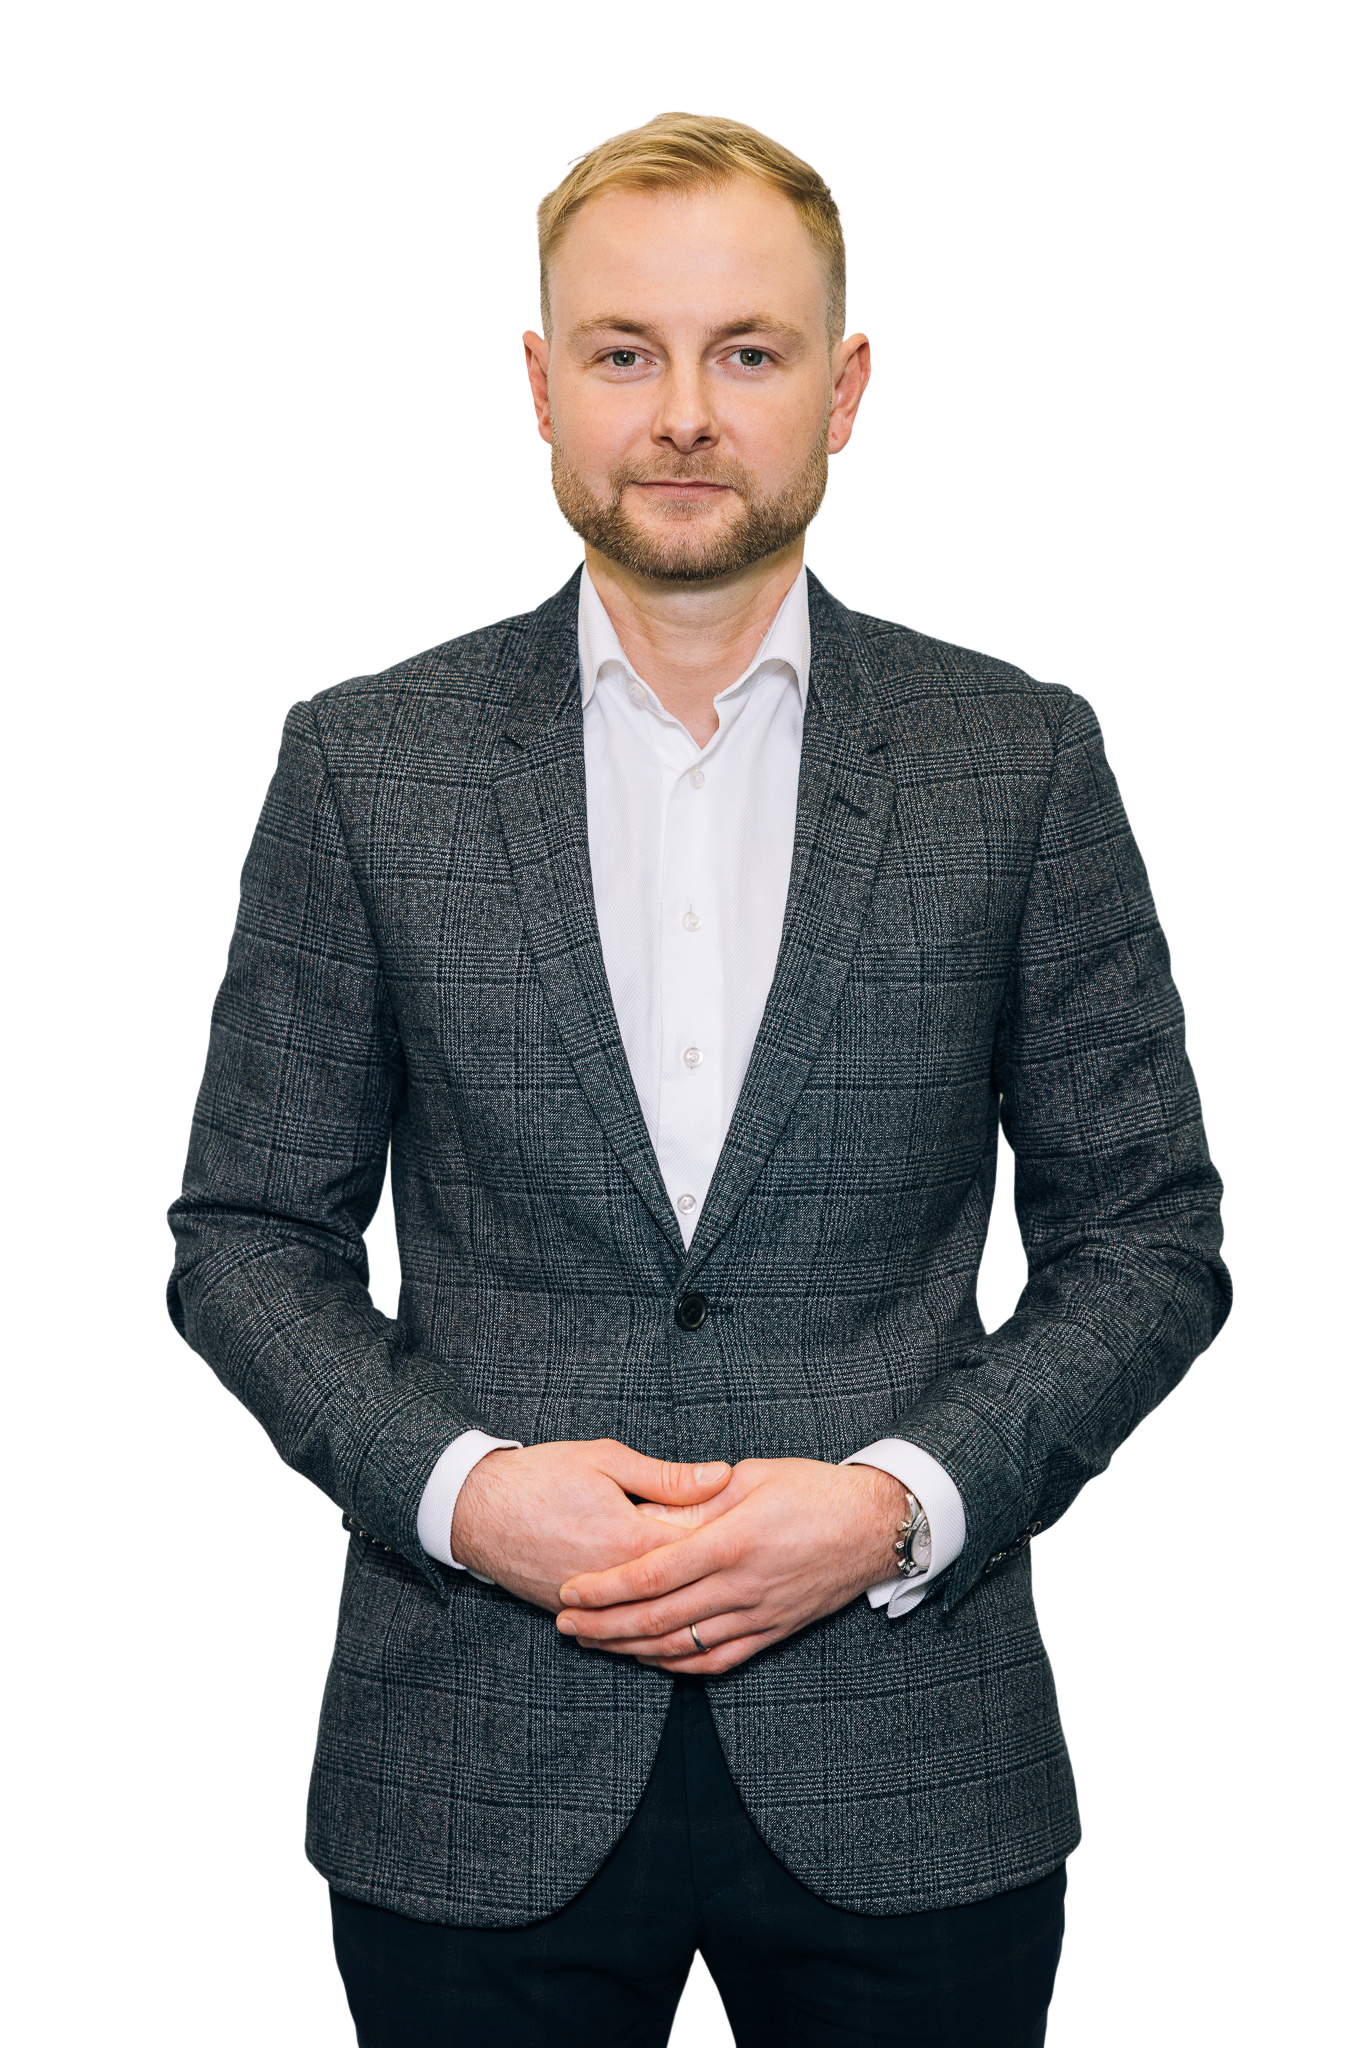
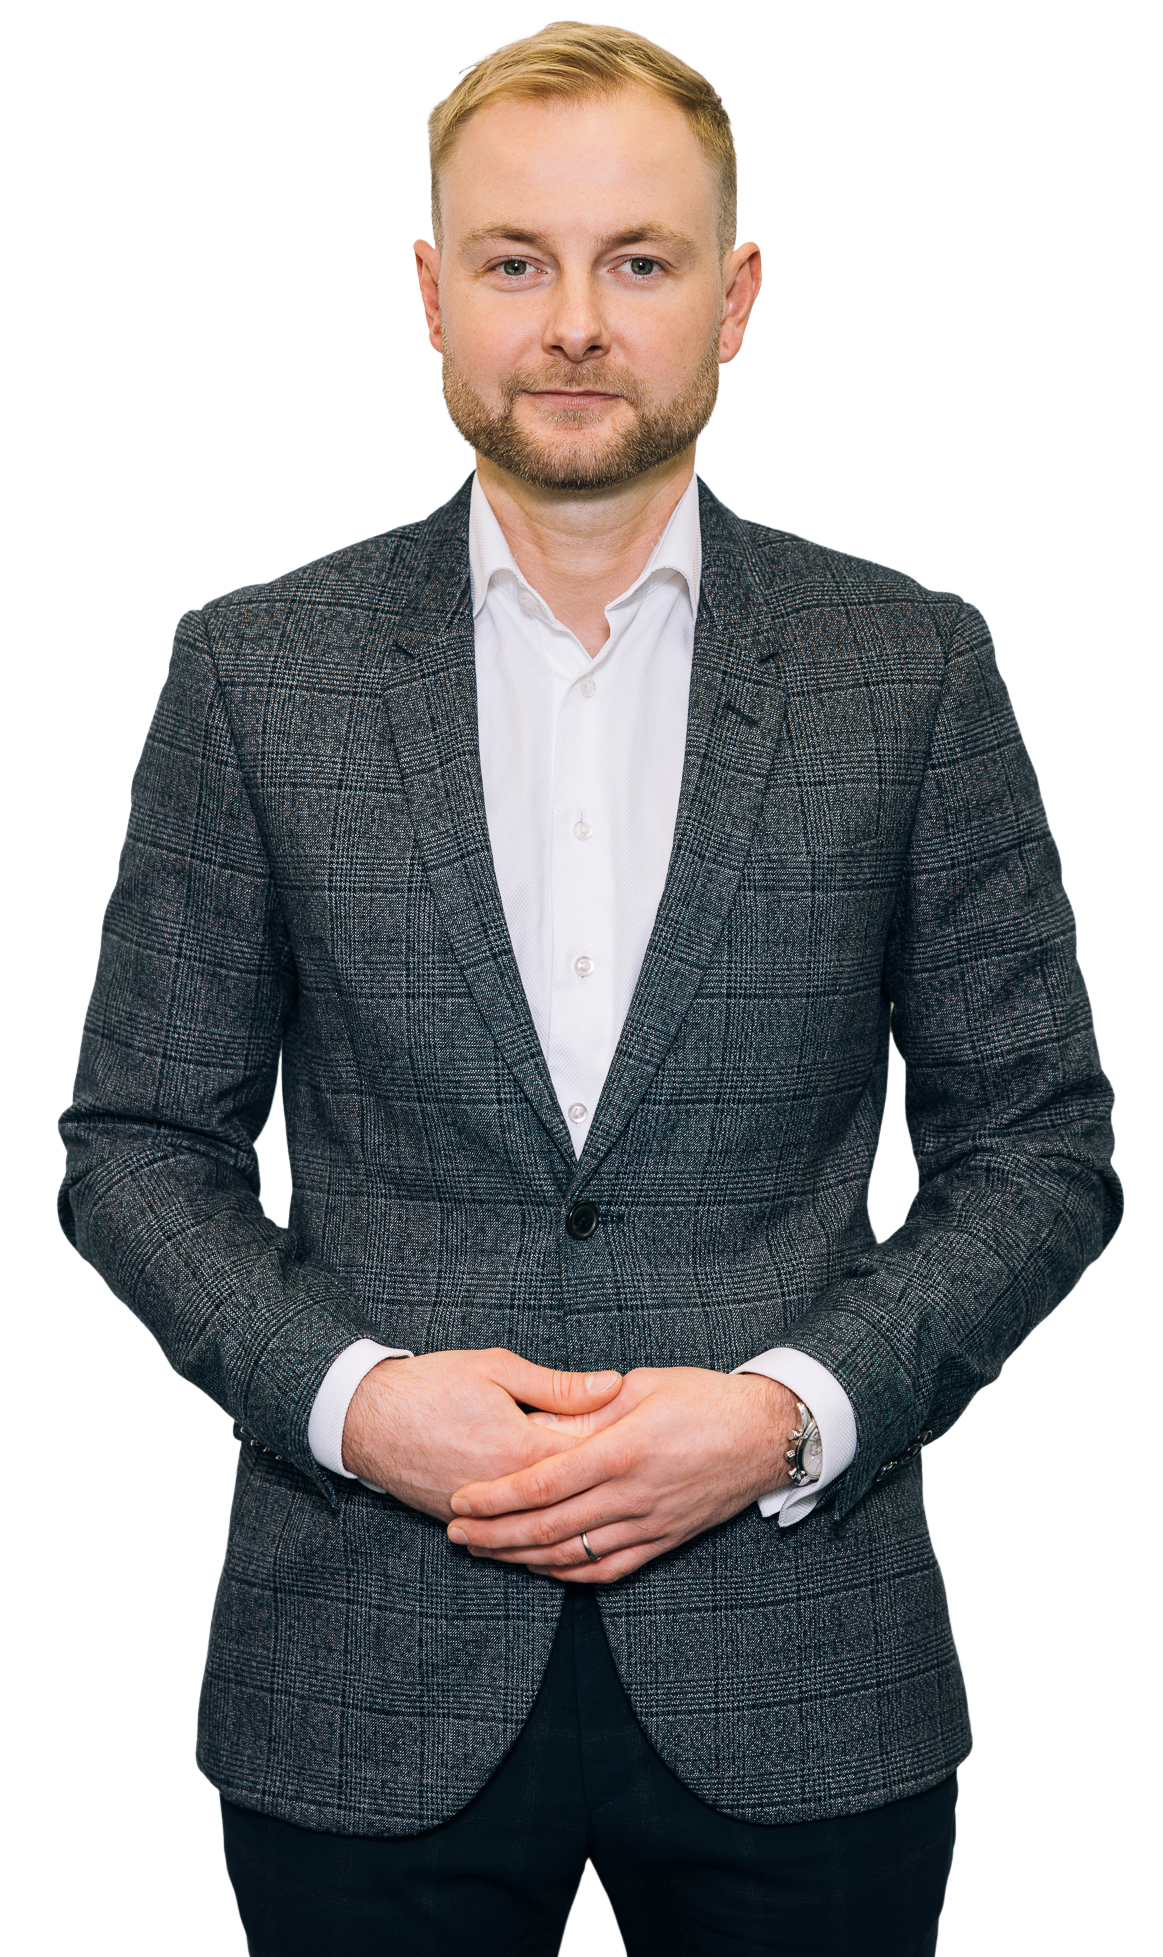
Add files via upload

diff --git a/index.html b/index.html
@@ -109,28 +109,32 @@
 
         /* --- 5. HERO SEKCE & FOTKY --- */
         .hero { min-height: 100vh; display: grid; grid-template-columns: 1fr 1fr; align-items: center; gap: 60px; padding: 140px 10% 60px; }
-        h1 { font-size: clamp(2.8rem, 5vw, 4.5rem); line-height: 1.1; margin-bottom: 24px; letter-spacing: -1px; }
+        h1 { font-size: clamp(2.2rem, 5vw, 4.5rem); line-height: 1.1; margin-bottom: 24px; letter-spacing: -1px; }
         .hero-desc { font-size: 1.2rem; color: var(--text-muted); margin-bottom: 40px; font-weight: 300; }
         .btn {
             display: inline-block; padding: 16px 36px; background: var(--text-main); color: var(--bg-main); text-decoration: none; border-radius: 50px;
-            font-weight: 500; font-size: 1.1rem; transition: all 0.3s ease; border: 1px solid transparent; cursor: pointer;
+            font-weight: 500; font-size: 1.1rem; transition: all 0.3s ease; border: 1px solid transparent; cursor: pointer; text-align: center;
         }
         .btn:hover { background: var(--accent); color: #000; transform: translateY(-3px); box-shadow: 0 15px 30px rgba(212, 175, 55, 0.3); }
 
-        .hero-image-wrapper { position: relative; border-radius: 30px; overflow: hidden; box-shadow: 0 30px 60px rgba(0,0,0,0.1); }
+        /* Zajištění, aby se obal fotky natáhl podle obsahu */
+        .hero-image-wrapper { position: relative; border-radius: 30px; overflow: hidden; box-shadow: 0 30px 60px rgba(0,0,0,0.1); display: flex; }
         .hero-image-wrapper::after { content: ''; position: absolute; inset: 0; border-radius: 30px; box-shadow: inset 0 0 0 1px rgba(255,255,255,0.2); pointer-events: none; }
-        .profile-img { width: 100%; height: 600px; object-fit: cover; display: block; }
+        
+        /* Chytře nastavená fotka: výška se přizpůsobí novému, dokonalému ořezu! */
+        .profile-img { 
+            width: 100%; 
+            height: auto; /* Toto zaručí, že se ukáže přesně to, co jste ořízl */
+            max-height: 650px; /* Na obřích monitorech zamezí přílišnému zvětšení */
+            object-fit: cover; 
+            object-position: center top; 
+            display: block; 
+        }
 
         .floating-image-wrapper { display: flex; justify-content: center; align-items: center; position: relative; }
         .floating-img { 
-            width: 100%; 
-            max-width: 500px; 
-            height: auto; 
-            object-fit: contain; 
-            filter: drop-shadow(0 20px 40px rgba(0,0,0,0.15)); 
-            transition: filter 0.4s ease; 
-            -webkit-mask-image: linear-gradient(to bottom, black 90%, transparent 100%);
-            mask-image: linear-gradient(to bottom, black 90%, transparent 100%);
+            width: 100%; max-width: 500px; height: auto; object-fit: contain; filter: drop-shadow(0 20px 40px rgba(0,0,0,0.15)); transition: filter 0.4s ease; 
+            -webkit-mask-image: linear-gradient(to bottom, black 90%, transparent 100%); mask-image: linear-gradient(to bottom, black 90%, transparent 100%);
         }
         [data-theme="dark"] .floating-img { filter: drop-shadow(0 20px 40px rgba(0,0,0,0.6)); }
 
@@ -161,10 +165,7 @@
             transition: border-color 0.3s ease, box-shadow 0.3s ease; width: 100%; cursor: default;
         }
         .review-card.is-truncatable { cursor: pointer; } 
-        .review-card:hover { 
-            border-color: var(--accent); 
-            box-shadow: 0 20px 40px -10px rgba(0,0,0,0.1), 0 0 15px rgba(212, 175, 55, 0.15);
-        }
+        .review-card:hover { border-color: var(--accent); box-shadow: 0 20px 40px -10px rgba(0,0,0,0.1), 0 0 15px rgba(212, 175, 55, 0.15); }
         [data-theme="dark"] .review-card:hover { box-shadow: 0 20px 40px -10px rgba(0,0,0,0.6), 0 0 15px rgba(212, 175, 55, 0.15); }
         
         .stars { color: var(--accent); font-size: 1.2rem; letter-spacing: 3px; }
@@ -179,11 +180,26 @@
         .review-card.expanded .expand-hint { display: none; }
 
         /* --- 8. KONTAKT, FORMULÁŘ A MAPA --- */
-        .contact-box { background: var(--bg-surface); border: 1px solid var(--border); border-radius: 30px; padding: 60px; display: grid; grid-template-columns: 1fr 1fr; gap: 60px; box-shadow: var(--shadow-subtle); }
-        .form-group { margin-bottom: 25px; }
+        .contact-box { 
+            background: var(--bg-surface); border: 1px solid var(--border); border-radius: 30px; 
+            padding: 60px; box-shadow: var(--shadow-subtle);
+            display: grid; grid-template-columns: 1fr 1fr; grid-template-rows: max-content 1fr; gap: 30px 60px; 
+        }
+        
+        .contact-info { grid-column: 1; grid-row: 1; }
+        .contact-form { grid-column: 2; grid-row: 1 / span 2; display: flex; flex-direction: column; }
+        
+        .iframe-container {
+            grid-column: 1; grid-row: 2;
+            width: 100%; height: 100%; min-height: 250px;
+            border-radius: 16px; overflow: hidden; display: block; line-height: 0;
+        }
+        .iframe-container iframe { width: 100%; height: 100%; border: none; display: block; }
+
+        .form-group { margin-bottom: 20px; }
         input, textarea { width: 100%; padding: 16px 24px; background: var(--bg-main); border: 1px solid var(--border); border-radius: 16px; color: var(--text-main); font-family: inherit; font-size: 1rem; transition: all 0.3s ease; }
         input:focus, textarea:focus { outline: none; border-color: var(--accent); box-shadow: 0 0 0 4px var(--glow-1); }
-        .btn-submit { width: 100%; background: var(--accent); color: #000; border: none; cursor: pointer; font-weight: 700; }
+        .btn-submit { width: 100%; background: var(--accent); color: #000; border: none; cursor: pointer; font-weight: 700; margin-top: auto; }
         .btn-submit:hover { background: var(--accent-hover); }
 
         .contact-link { color: var(--text-main); text-decoration: none; transition: color 0.3s ease; }
@@ -194,22 +210,6 @@
         .privacy-link { color: var(--text-main); text-decoration: underline; text-decoration-color: var(--accent); cursor: pointer; transition: color 0.3s ease; }
         .privacy-link:hover { color: var(--accent); }
 
-        /* Styly pro responzivní mapu */
-        .iframe-container {
-            width: 100%;
-            border-radius: 16px;
-            overflow: hidden;
-            display: block;
-            line-height: 0;
-            margin-top: 15px;
-        }
-        .iframe-container iframe {
-            width: 100%;
-            height: 250px;
-            border: none;
-            display: block;
-        }
-
         footer { text-align: center; padding: 40px; color: var(--text-muted); font-weight: 300; border-top: 1px solid var(--border); display: flex; flex-direction: column; gap: 10px; align-items: center; }
 
         /* --- 9. MODÁLNÍ OKNO PRO GDPR --- */
@@ -218,13 +218,11 @@
             z-index: 1000; display: flex; align-items: center; justify-content: center; opacity: 0; pointer-events: none; transition: opacity 0.4s ease; padding: 20px;
         }
         .modal-overlay.active { opacity: 1; pointer-events: all; }
-        
         .modal-content {
             background: var(--bg-main); width: 100%; max-width: 650px; max-height: 85vh; overflow-y: auto; border-radius: 24px; padding: 50px 40px; position: relative;
             border: 1px solid var(--border); box-shadow: 0 25px 50px -12px rgba(0, 0, 0, 0.25); transform: translateY(20px); transition: transform 0.4s ease;
         }
         .modal-overlay.active .modal-content { transform: translateY(0); }
-        
         .modal-close {
             position: absolute; top: 20px; right: 20px; background: var(--bg-surface); border: 1px solid var(--border); width: 40px; height: 40px; border-radius: 50%;
             display: flex; align-items: center; justify-content: center; cursor: pointer; color: var(--text-main); transition: all 0.3s ease;
@@ -238,26 +236,75 @@
         .reveal { opacity: 0; transform: translateY(30px); transition: all 0.8s cubic-bezier(0.16, 1, 0.3, 1); }
         .reveal.active { opacity: 1; transform: translateY(0); }
 
-        /* --- 11. RESPONZIVITA --- */
+        /* --- 11. RESPONZIVITA A SUPER KOMPAKTNÍ MOBILNÍ VERZE --- */
         @media (max-width: 992px) {
-            .hero, .about-layout, .contact-box { grid-template-columns: 1fr; text-align: center; gap: 40px; }
-            .hero { padding-top: 130px; }
+            .hero { padding-top: 120px; gap: 40px; }
+            .hero, .about-layout { grid-template-columns: 1fr; text-align: center; }
             .hero-content { display: flex; flex-direction: column; align-items: center; }
-            .profile-img { height: 400px; } 
-            .floating-img { max-width: 350px; }
+            
+            .profile-img { height: auto; max-height: 550px; } 
+            
+            .floating-img { max-width: 300px; }
             .carousel-slide { flex: 0 0 50%; } 
+            
+            .contact-box { grid-template-columns: 1fr; grid-template-rows: auto auto auto; gap: 30px; padding: 40px 30px; }
+            .contact-info { grid-column: 1; grid-row: 1; }
+            .contact-form { grid-column: 1; grid-row: 2; }
+            .iframe-container { grid-column: 1; grid-row: 3; height: 300px; }
         }
+
         @media (max-width: 600px) {
-            .header-right { gap: 15px; }
+            /* Kompaktní odsazení sekcí */
+            .section { padding: 40px 5%; }
+            .section-header { margin-bottom: 30px; }
+            .section-header h2 { font-size: 1.8rem; margin-bottom: 5px; }
+            .section-header p { font-size: 0.95rem; }
+            
+            .hero { padding: 90px 5% 30px; gap: 20px; }
+            h1 { font-size: 2rem; margin-bottom: 10px; }
+            .hero-desc { font-size: 1rem; margin-bottom: 20px; }
+            .btn { padding: 12px 24px; font-size: 1rem; width: 100%; border-radius: 12px; }
+            
+            /* Výška auto zaručí přirozený poměr nového obrázku bez zkreslení či useknutí */
+            .profile-img { 
+                height: auto; 
+                max-height: none; 
+                border-radius: 20px;
+                object-position: center top; 
+            }
+            .hero-image-wrapper { border-radius: 20px; }
+            
+            .floating-img { max-width: 220px; }
+            .about-layout { gap: 20px; }
+
+            .header-right { gap: 12px; }
             .header-phone span { display: none; }
-            .header-phone svg { width: 24px; height: 24px; }
-            .logo-img { max-height: 32px; }
-            .logo-text { font-size: 1.2rem; }
-            .section { padding: 60px 5%; }
-            .contact-box { padding: 40px 20px; }
-            .modal-content { padding: 30px 20px; }
-            .review-card { padding: 30px 25px; }
+            .header-phone svg { width: 22px; height: 22px; }
+            .logo-img { max-height: 28px; }
+            .logo-text { font-size: 1.1rem; }
+            
+            .grid { gap: 15px; }
+            .card { padding: 20px 15px; border-radius: 12px; }
+            .card h3 { font-size: 1.2rem; margin-bottom: 5px; }
+            
+            .review-card { padding: 20px 15px; border-radius: 12px; gap: 10px; }
             .carousel-slide { flex: 0 0 100%; } 
+            
+            /* Extra stlačený kontaktní blok */
+            .contact-box { padding: 20px; gap: 20px; border-radius: 16px; }
+            .contact-info h2 { font-size: 1.8rem; margin-bottom: 5px; }
+            .contact-info p { margin-bottom: 15px; font-size: 0.9rem; }
+            .contact-info > div { margin-bottom: 5px; font-size: 0.95rem; }
+            
+            .form-group { margin-bottom: 12px; }
+            input, textarea { padding: 10px 14px; font-size: 0.9rem; border-radius: 10px; }
+            .checkbox-group { margin-bottom: 15px; font-size: 0.85rem; gap: 8px; }
+            .checkbox-group input[type="checkbox"] { margin-top: 2px; }
+            
+            /* Mapa se stane více obdélníkovou a nebude tolik roztahovat obrazovku */
+            .iframe-container { height: 200px; min-height: 200px; border-radius: 10px; }
+            .modal-content { padding: 25px 15px; border-radius: 16px; }
+            .modal-content h2 { font-size: 1.5rem; }
         }
     </style>
 </head>
@@ -291,7 +338,8 @@
                 <a href="#kontakt" class="btn">Začít spolupráci</a>
             </div>
             <div class="hero-image-wrapper reveal" style="transition-delay: 0.2s;">
-                <img src="mailfoto.jpg" alt="Daniel Kunst - Finanční poradce" class="profile-img">
+                <!-- DŮLEŽITÉ: Nyní načítáme novou, oříznutou fotku mailfoto_2.jpg -->
+                <img src="mailfoto_2.jpg" alt="Daniel Kunst - Finanční poradce" class="profile-img">
             </div>
         </section>
 
@@ -431,10 +479,6 @@
                         <strong>Adresa</strong><br>
                         <a href="https://maps.app.goo.gl/gxZqumMVDwa9Y4Rf6" class="contact-link" target="_blank" rel="noopener noreferrer">Třída Míru 92, Pardubice</a>
                     </div>
-                    <!-- Obal pro responzivní mapu -->
-                    <div class="iframe-container">
-                        <iframe src="https://www.google.com/maps/embed?pb=!1m18!1m12!1m3!1d2562.6298851700085!2d15.771927500000002!3d50.037030699999995!2m3!1f0!2f0!3f0!3m2!1i1024!2i768!4f13.1!3m3!1m2!1s0x470dcdeba09f4699%3A0x54e3b0a73a7ec5fc!2sDaniel%20Kunst!5e0!3m2!1scs!2scz!4v1783869555374!5m2!1scs!2scz" allowfullscreen="" loading="lazy" referrerpolicy="strict-origin-when-cross-origin"></iframe>  
-                    </div>
                 </div>
                 
                 <form class="contact-form" onsubmit="event.preventDefault(); alert('Formulář je připraven na napojení do PHP/WordPressu.');">
@@ -444,8 +488,8 @@
                     <div class="form-group">
                         <input type="email" placeholder="Váš e-mail" required>
                     </div>
-                    <div class="form-group">
-                        <textarea rows="12" placeholder="Jak vám mohu pomoci?" required></textarea>
+                    <div class="form-group" style="flex-grow: 1; display: flex; flex-direction: column;">
+                        <textarea rows="7" placeholder="Jak vám mohu pomoci?" style="flex-grow: 1;" required></textarea>
                     </div>
                     
                     <div class="checkbox-group">
@@ -457,6 +501,10 @@
                     
                     <button type="submit" class="btn btn-submit">Odeslat poptávku</button>
                 </form>
+
+                <div class="iframe-container">
+                    <iframe src="https://www.google.com/maps/embed?pb=!1m18!1m12!1m3!1d2562.6298851700085!2d15.771927500000002!3d50.037030699999995!2m3!1f0!2f0!3f0!3m2!1i1024!2i768!4f13.1!3m3!1m2!1s0x470dcdeba09f4699%3A0x54e3b0a73a7ec5fc!2sDaniel%20Kunst!5e0!3m2!1scs!2scz!4v1783869555374!5m2!1scs!2scz" allowfullscreen="" loading="lazy" referrerpolicy="strict-origin-when-cross-origin"></iframe>  
+                </div>
             </div>
         </section>
     </main>